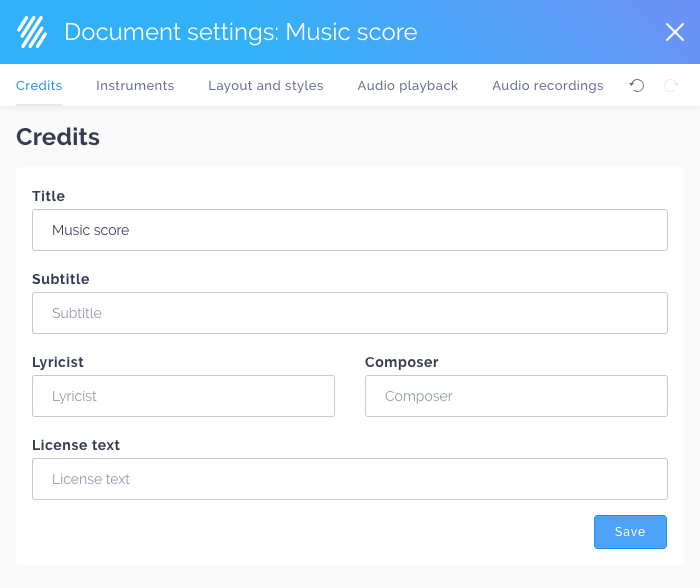
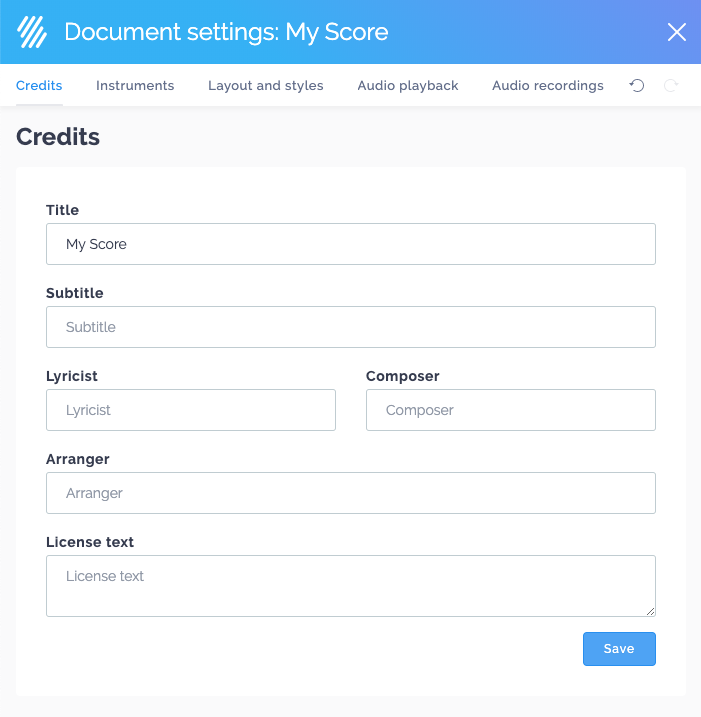
doc(credits): arranger field

diff --git a/docs/en/editor/credits.md b/docs/en/editor/credits.md
@@ -18,7 +18,7 @@ action.showCreditsSettings: true
 
 You can easily add and update credits information about your score: open our Web Editor and **click on the existing title of your score**. 
 
-You can then add a **Title**, **Subtitle**, **Lyricist**, **Composer** and **License text** to your document. Additional *document settings* will be also displayed on the opened page (Instruments, Layout and Styles, Audio Playback and Audio Recordings).
+You can then add a **Title**, **Subtitle**, **Lyricist**, **Composer**, **Arranger** and **License text** to your document. Additional *document settings* will be also displayed on the opened page (Instruments, Layout and Styles, Audio Playback and Audio Recordings).
 
 ![Credits](/help/assets/img/editor/credits.png)
 
